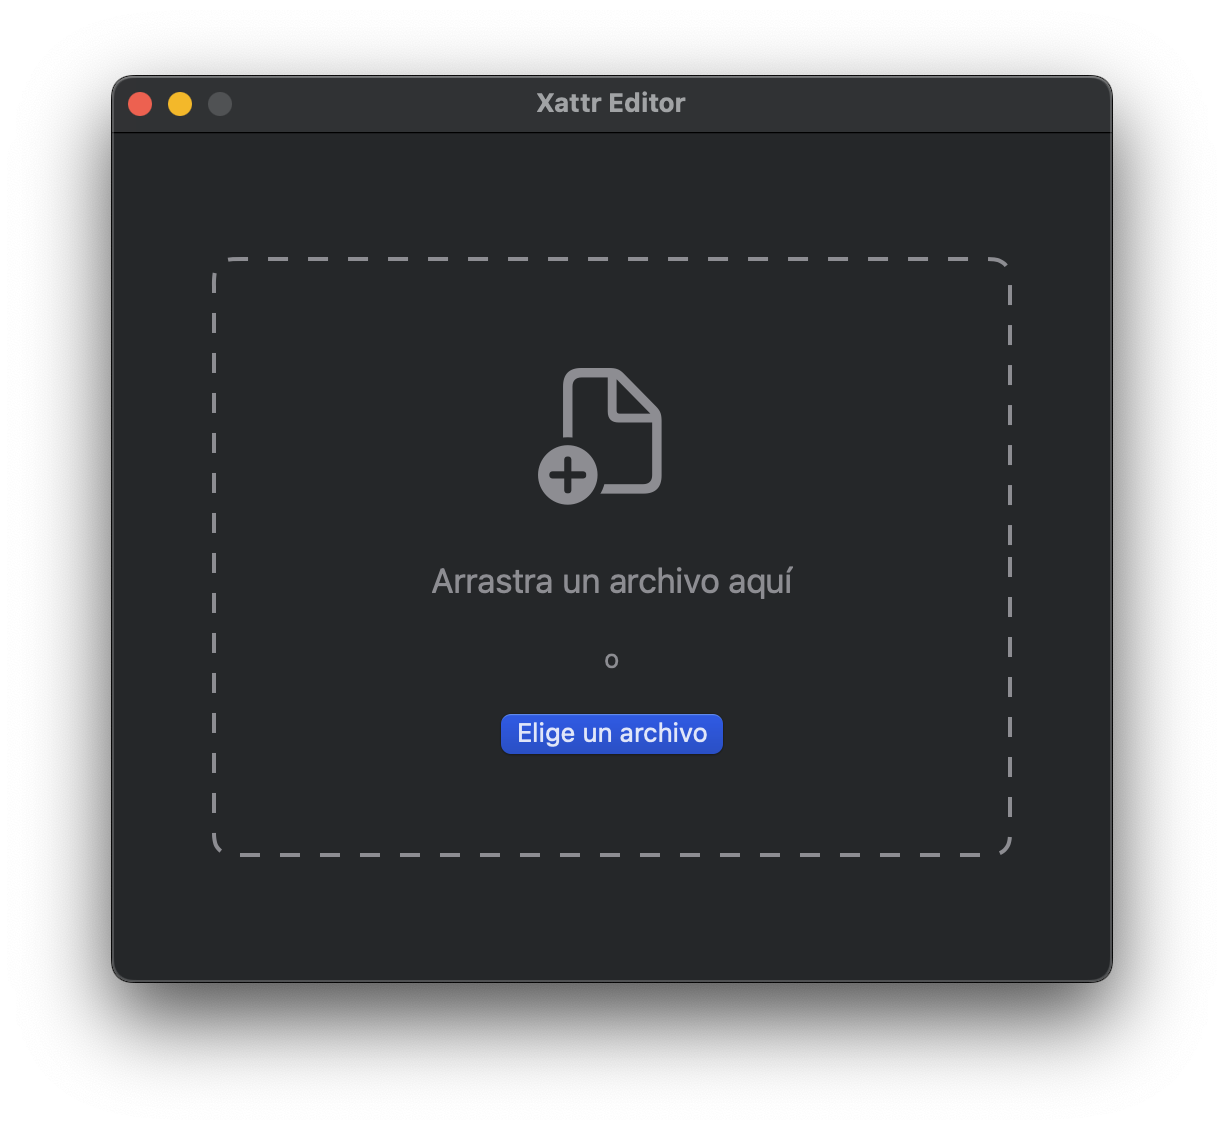
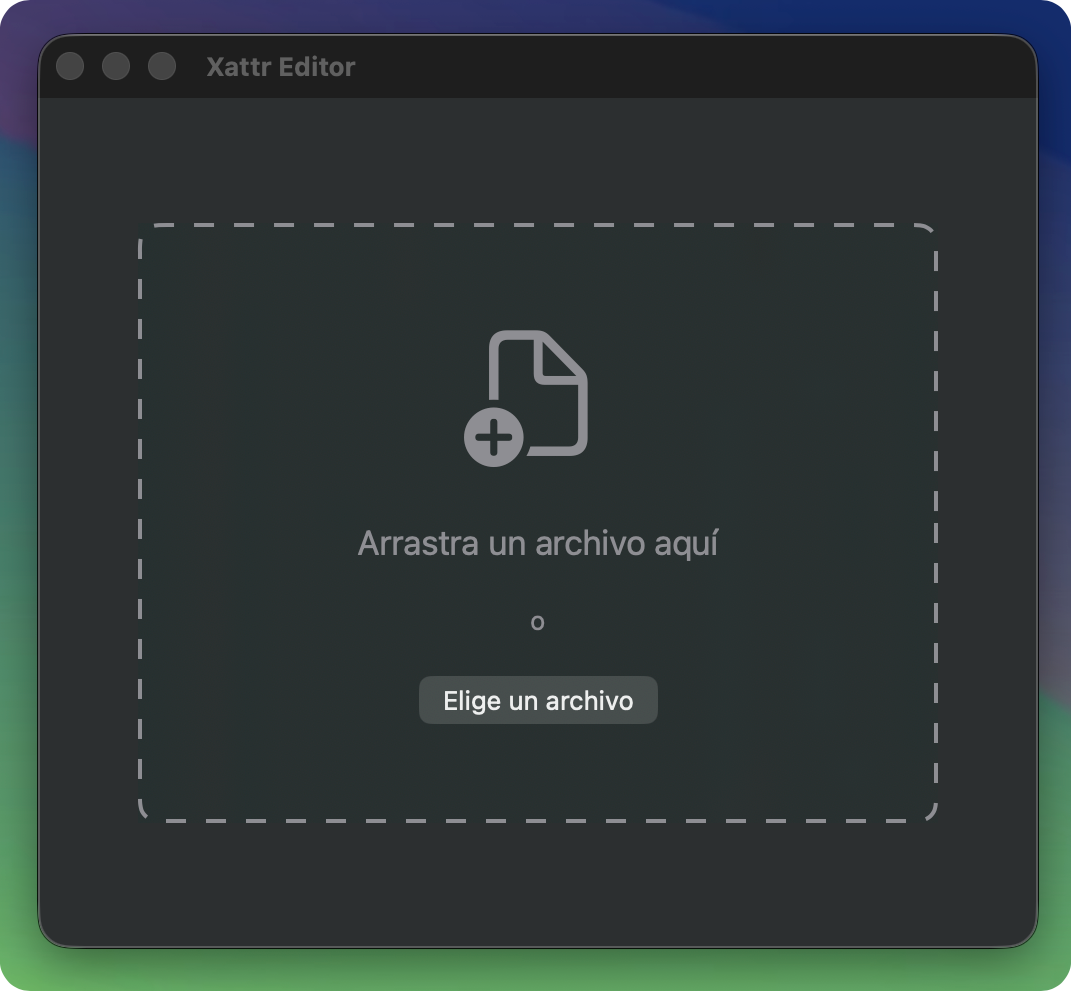
Update screenshots and README for UI changes

diff --git a/README.md b/README.md
@@ -4,7 +4,7 @@
 
 ## SwiftUI Version
 
-**New!** This project has been migrated from XIB storyboard to SwiftUI, providing a modern UI framework with Liquid Glass effect support for macOS 15+. The app now requires:
+This project has been migrated from XIB storyboard to SwiftUI, providing a modern UI framework with Liquid Glass effect support for macOS 15+. The app now requires:
 
 - **Xcode 15** or later
 - **macOS 14.0** or later
@@ -22,15 +22,16 @@ This [document](DOCS/App-damaged.md) expands on the information about the securi
 
 It's really simple to use. When you start the app, a window appears where you can drag and drop files.
 
-<img  alt="macOS 14 Sonoma" src="Images/App1-14.png" width="500">
 
-<img  alt="macOS 26 Tahoe"  src="Images/App1.png" width="400">
+<img  alt="macOS 14 Sonoma" src="Images/App1-14.png" width=“400">
+
+<img  alt="macOS 26 Tahoe"  src="Images/App1.png" width=“400">
 
 You can also use the File >> Open menu (Cmd + O), which allows you to select a file instead of dragging it onto the window. Either way, the main window opens with the extended attribute(s) (if any) and their properties.
 
-<img  alt="macOS 14 Sonoma" src="Images/App2-14.png" width="500">
+<img  alt="macOS 14 Sonoma" src="Images/App2-14.png" width=“400">
 
-<img  alt="macOS 26 Tahoe"  src="Images/App2.png" width="400">
+<img  alt="macOS 26 Tahoe"  src="Images/App2.png" width=“400">
 
 You can add, rename, delete, or modify properties of existing attributes.
 
